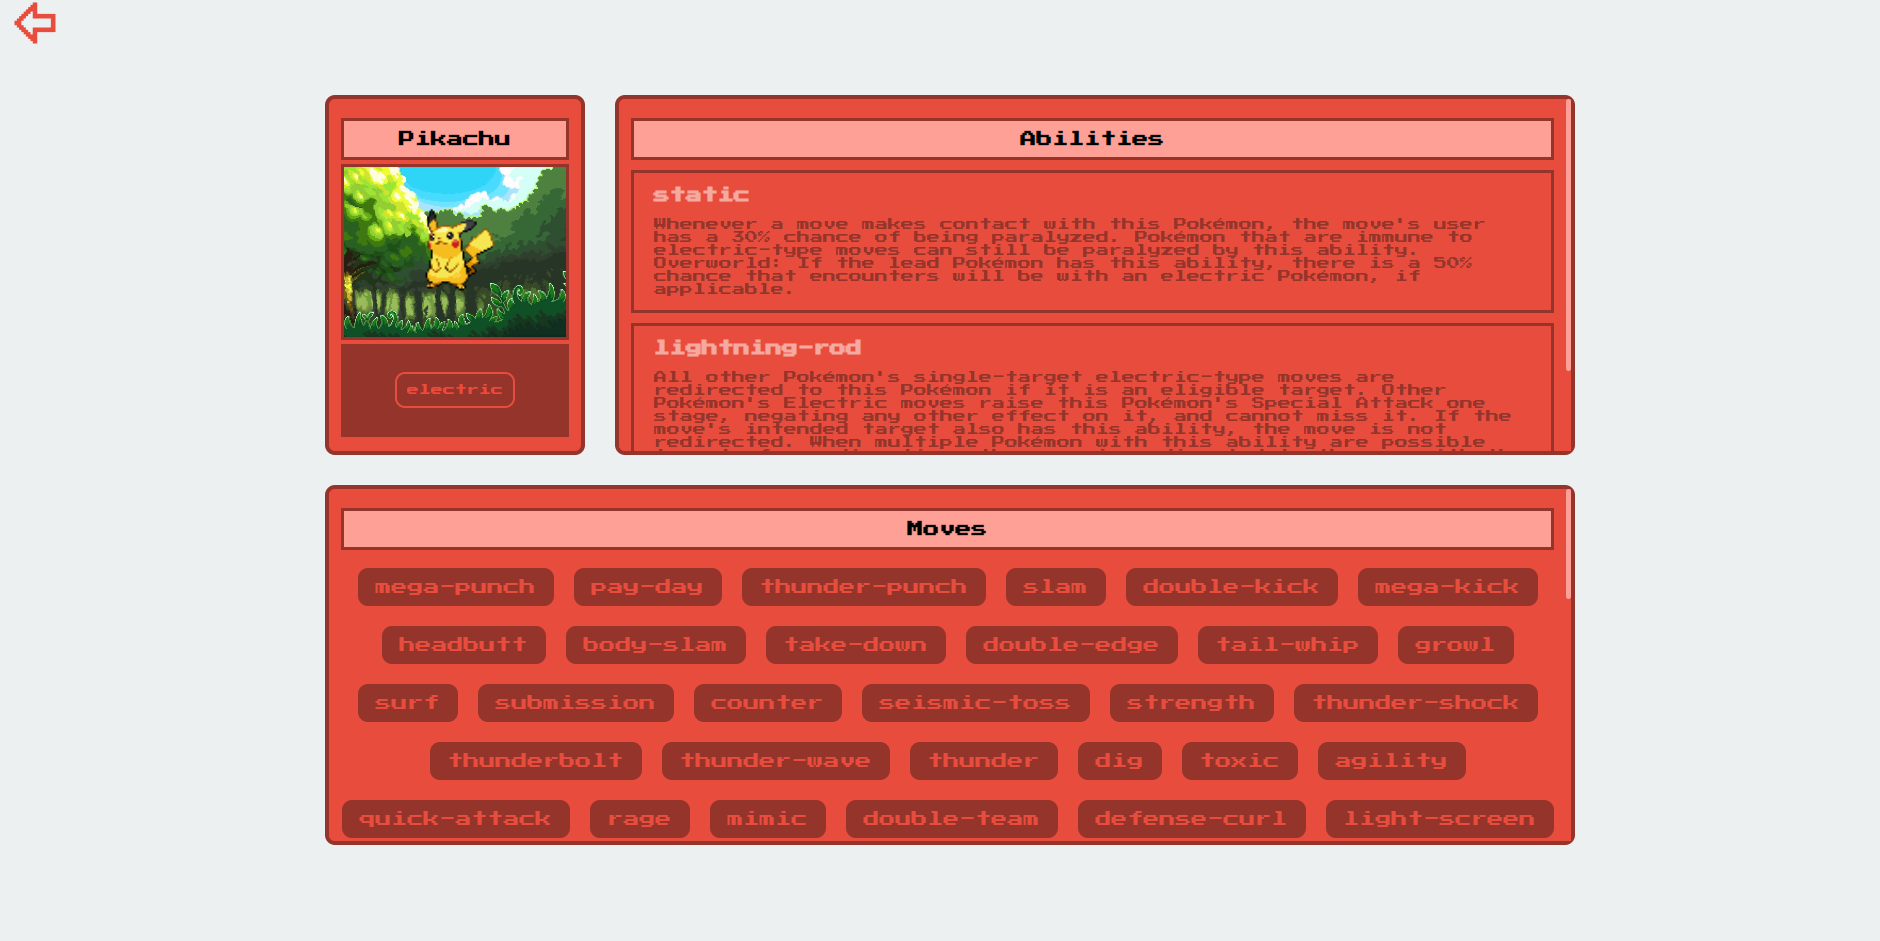
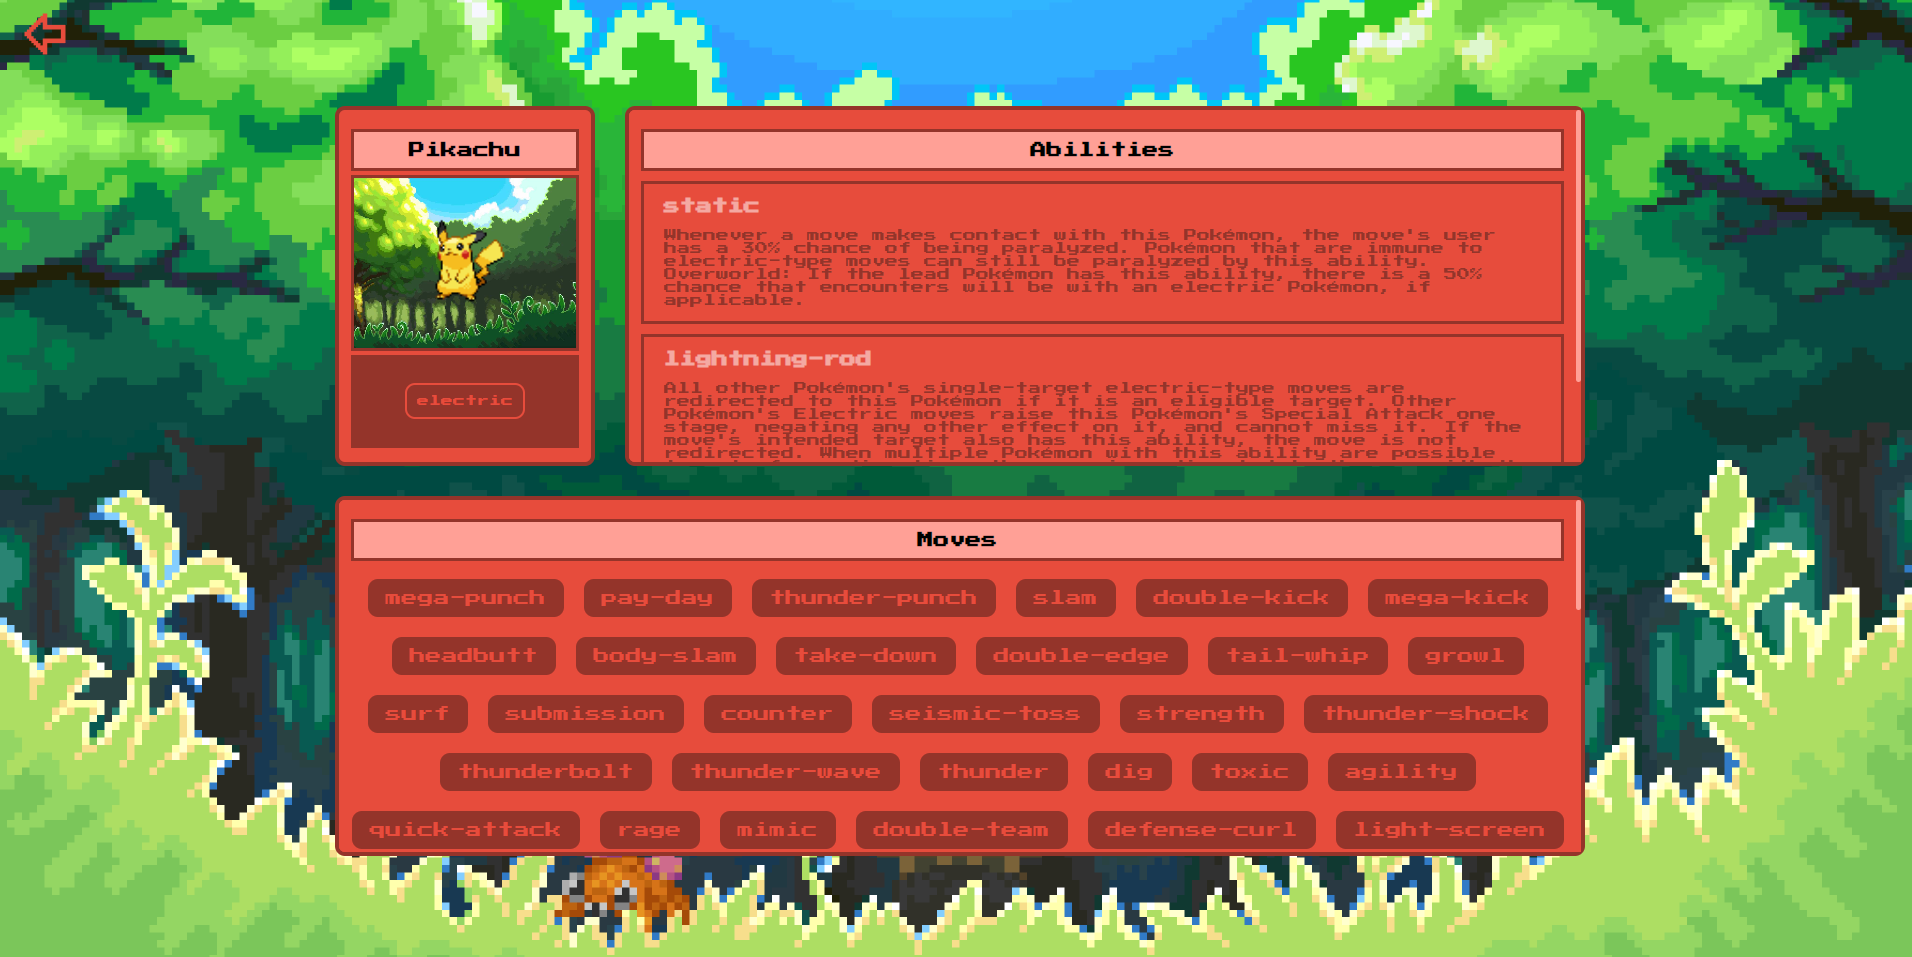
Change PokemonDetails background

diff --git a/src/pages/PokemonDetails.jsx b/src/pages/PokemonDetails.jsx
@@ -3,6 +3,10 @@ import { BackArrowButton, Card, Moves, Move, Abilities, Ability, LoadingPage } f
 import { getPokemon } from "../services/getPokemon";
 import { useState, useEffect } from "react";
 import { useParams } from "react-router-dom";
+import { ThemeState } from "../contexts/themes";
+import { useContext } from "react";
+import BgHeroDay from "../assets/img/bg-hero-day.png";
+import BgHeroNight from "../assets/img/bg-hero-night.png";
 
 
 const getAbilities = async (url) => {
@@ -11,6 +15,9 @@ const getAbilities = async (url) => {
 };
 
 const PokemonDetails = () => {
+  const { theme } = useContext(ThemeState);
+  console.log(theme);
+
   const [pokemon, setPokemon] = useState();
   const [abilities, setAbilities] = useState();
   const [isloading, setIsLoading] = useState(true);
@@ -35,7 +42,7 @@ const PokemonDetails = () => {
   }, []);
 
   return (
-    <Main>
+    <Main theme={theme}>
       {isloading && <LoadingPage />}
       <BackArrowButton />
       {!isloading && (
@@ -74,7 +81,8 @@ const Main = styled.main`
   place-content: center;
   grid-template-columns: 260px 50%;
   grid-template-rows: 360px 360px;
-  background: ${({ theme }) => theme.colors.pokemonDetailsBg};
+  background: url(${({ theme }) => theme === "light" ? BgHeroDay : BgHeroNight}) no-repeat bottom center;
+  background-size: cover;
   min-height: 100vh;
   gap: 3rem;
 

diff --git a/src/components/Footer/index.jsx b/src/components/Footer/index.jsx
@@ -5,7 +5,7 @@ const Footer = () => {
   return (
     <StyledFooter>
       <p>
-        ©Created by{" "}
+        © Created by{" "}
         <Link to="https://github.com/JhowBRCG" target="no_blank">
           Jhowbrcg
         </Link>
